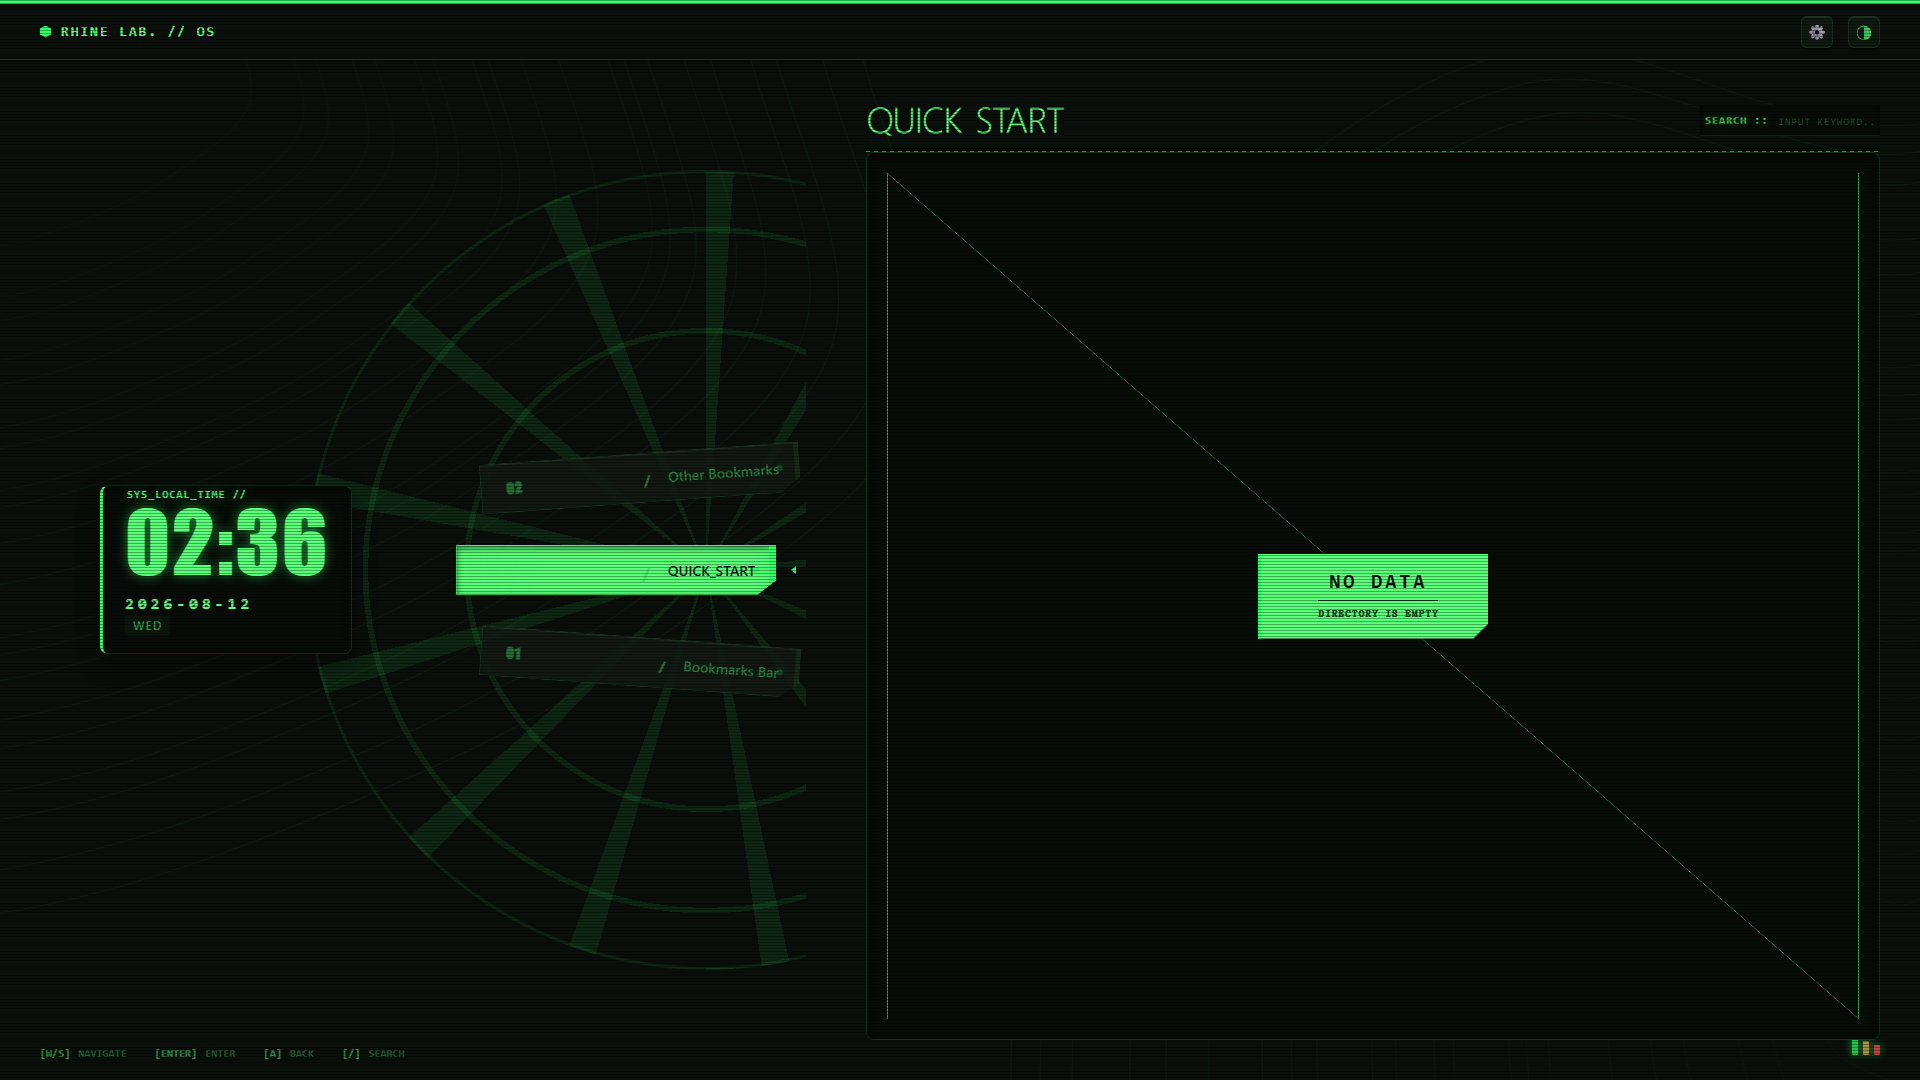
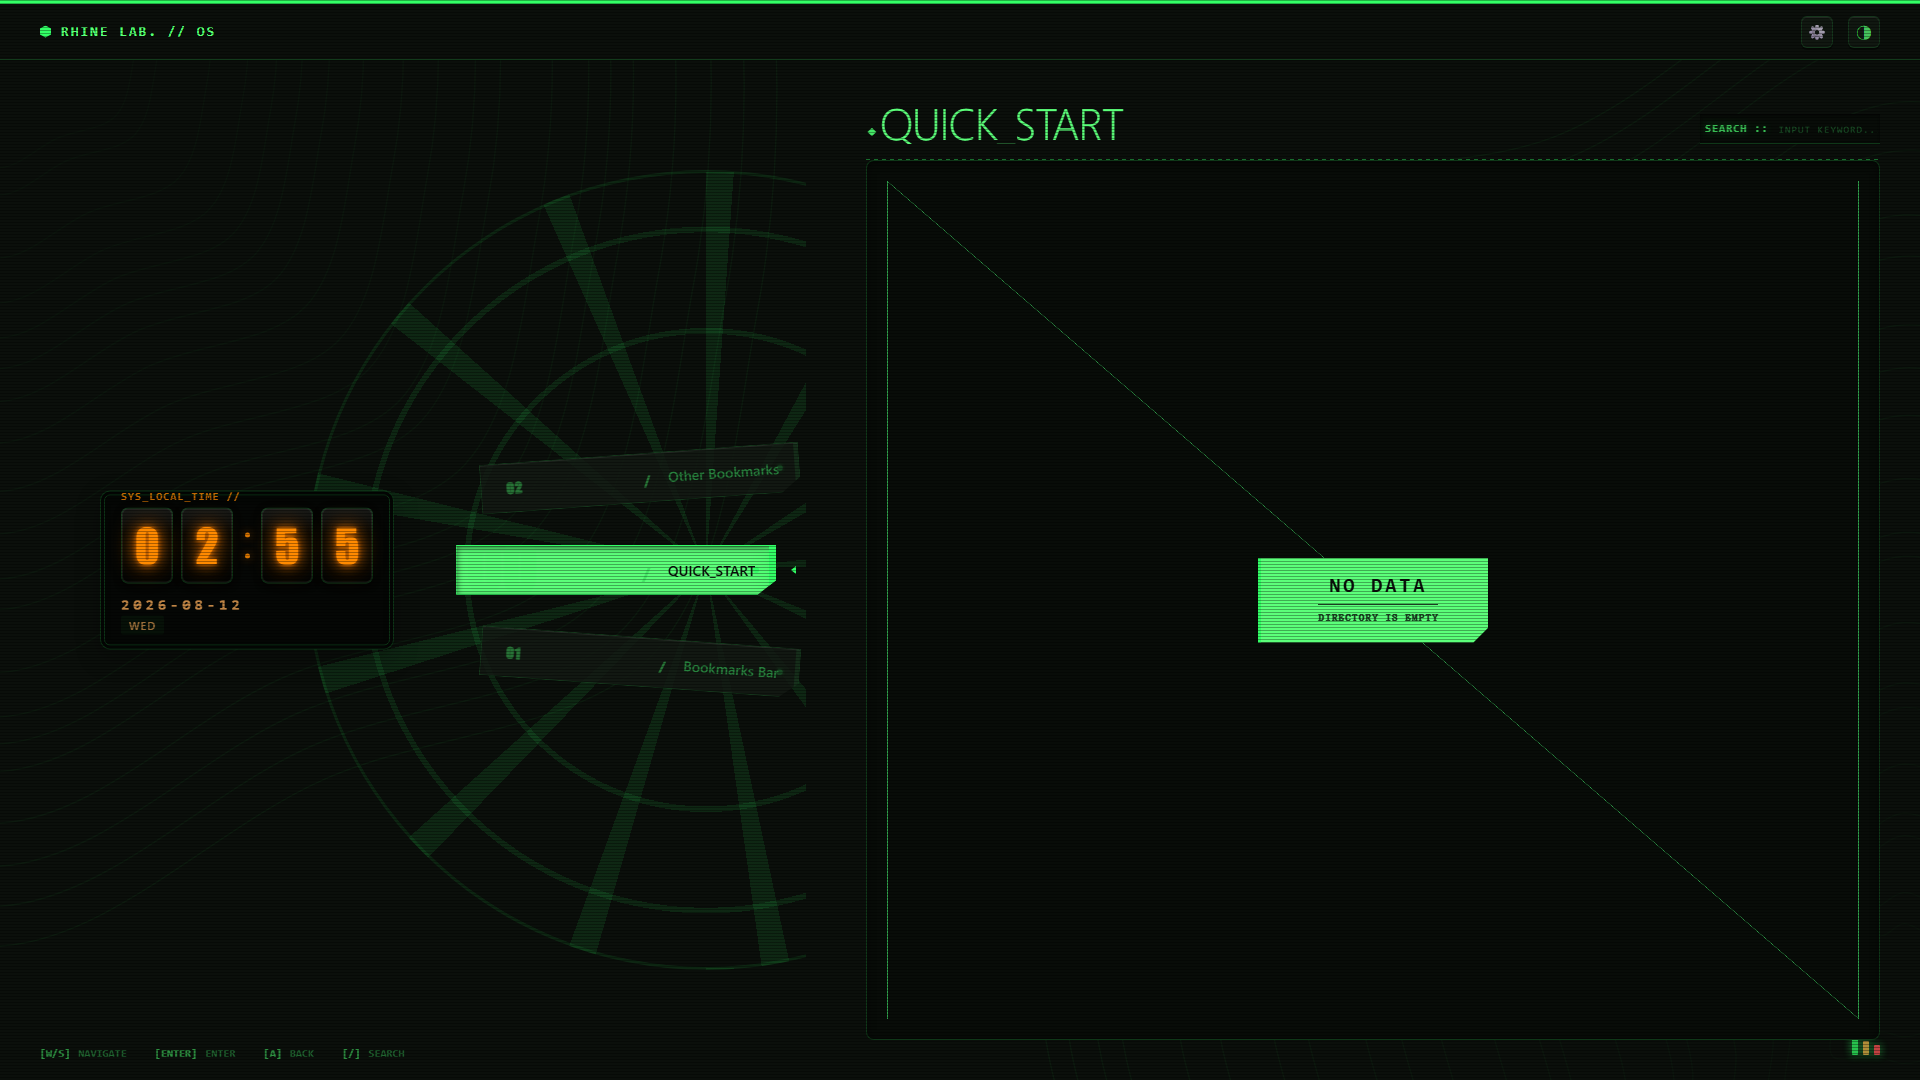
feat(ui): Nier-style monochrome light theme + Nixie tube clock
- light theme now pure black/white: near-white bg #F7F7F5, white surfaces, black accent/text, gray borders/shadows; green/amber removed (VU/LED gray-scaled); danger red kept for errors only
- Nixie tube clock implemented: clock.js renders per-digit .nixie-digit spans with data-digit; CSS tube rack with warm orange (#FF8A00) glow, ghost cathode digits via ::before, dot colon, orange date/week; orange is the only color accent in light theme
- Nier details: content title 44px with ◆ mark, modal section titles with ◆, inner frame lines on modal/clock housings
- dark theme unchanged (CRT green); regenerate screenshots

diff --git a/LoneTrail-Tab/css/modules/clock.css b/LoneTrail-Tab/css/modules/clock.css
@@ -1,59 +1,117 @@
-/* 时钟容器：HUD 风格 */
+/* 时钟容器：辉光管机架 */
 .clock-container {
     position: absolute;
-    left: 100px; 
+    left: 100px;
     top: 50%;
     transform: translateY(-50%);
     z-index: 10;
-    
+
     display: flex;
     flex-direction: column;
     justify-content: center;
-    
-    /* 显示屏模块：深色井底 + 边框 + 内阴影 */
-    padding: 18px 22px;
-    background: var(--well);
+
+    padding: 16px 20px 14px;
+    background: var(--tube);
     border: 1px solid var(--border);
-    border-radius: 8px;
-    box-shadow: inset 0 2px 6px var(--key-shadow), 0 8px 24px var(--shadow-soft);
-    border-left: 3px solid var(--accent);
-    
+    border-radius: 10px;
+    box-shadow: inset 0 2px 8px var(--key-shadow), 0 8px 24px var(--shadow-soft);
+    outline: 1px solid var(--border);
+    outline-offset: -5px;
+
     pointer-events: none;
     transition: opacity 0.3s;
 }
 
 .clock-container.hidden { opacity: 0; }
 
-/* 时间 (HH:MM) */
+/* 时间：一排辉光管 */
 .clock-time {
-    /* 使用等宽字体，数字对齐更漂亮 */
-    font-family: "Impact", "Roboto Mono", monospace;
-    font-size: 84px; /* 加大 */
-    font-weight: 400;
-    line-height: 0.9;
-    letter-spacing: 2px;
-    
-    color: var(--text-main);
-    text-shadow: 0 0 12px var(--phosphor-glow);
     position: relative;
+    display: flex;
+    align-items: center;
+    gap: 8px;
 }
 
 /* 装饰标签 SYS_TIME */
 .clock-time::before {
     content: "SYS_LOCAL_TIME //";
     position: absolute;
-    top: -14px; left: 2px;
+    top: -18px;
+    left: 0;
     font-size: 11px;
-    color: var(--accent-text);
+    color: var(--nixie);
     letter-spacing: 1px;
     font-family: var(--font-stack);
     font-weight: bold;
-    -webkit-text-fill-color: var(--accent-text); /* 覆盖上面的渐变 */
+    opacity: 0.75;
+}
+
+/* 单个辉光管 */
+.nixie-digit {
+    position: relative;
+    width: 52px;
+    height: 76px;
+    display: flex;
+    align-items: center;
+    justify-content: center;
+    border-radius: 7px;
+    background:
+        linear-gradient(180deg, var(--tube-sheen) 0%, transparent 35%, transparent 70%, var(--key-shadow) 100%),
+        var(--tube);
+    border: 1px solid var(--border);
+    box-shadow: inset 0 0 0 1px var(--tube-sheen), 0 2px 6px var(--key-shadow);
+    font-family: "Impact", "Roboto Mono", monospace;
+    font-size: 46px;
+    font-weight: 400;
+    line-height: 1;
+    color: var(--nixie);
+    text-shadow:
+        0 0 4px var(--nixie-glow),
+        0 0 12px var(--nixie-glow),
+        0 0 26px var(--nixie-glow);
+}
+
+/* 叠层幽灵数字（阴极片） */
+.nixie-digit::before {
+    content: attr(data-digit);
+    position: absolute;
+    inset: 0;
+    display: flex;
+    align-items: center;
+    justify-content: center;
+    font-family: inherit;
+    font-size: 44px;
+    color: var(--nixie);
+    opacity: 0.16;
+    filter: blur(1.5px);
+    transform: translateY(2px);
+    pointer-events: none;
+}
+
+/* 冒号：两个发光点 */
+.nixie-sep {
+    width: 12px;
+    height: 76px;
+    display: flex;
+    flex-direction: column;
+    align-items: center;
+    justify-content: center;
+    gap: 16px;
+}
+.nixie-sep::before,
+.nixie-sep::after {
+    content: '';
+    width: 5px;
+    height: 5px;
+    border-radius: 50%;
+    background: var(--nixie);
+    box-shadow: 0 0 8px var(--nixie-glow);
+    opacity: 0.85;
 }
 
 /* 日期与星期容器 */
 .clock-meta {
-    margin-top: 15px;
+    margin-top: 12px;
     display: flex;
     flex-direction: column;
     gap: 2px;
@@ -61,22 +119,22 @@
 
 /* 日期 */
 .clock-date {
-    font-size: 16px;
+    font-size: 15px;
     font-weight: 700;
-    color: var(--text-main);
+    color: var(--tube-text);
     letter-spacing: 4px;
     font-family: var(--font-stack);
 }
 
 /* 星期 */
 .clock-week {
-    font-size: 12px;
-    color: var(--text-sub);
+    font-size: 11px;
+    color: var(--tube-text);
     letter-spacing: 1px;
     text-transform: uppercase;
     font-weight: 600;
-    
-    /* 变成一个小标签样式 */
+    opacity: 0.8;
+
     display: inline-block;
     background: var(--inset);
     padding: 2px 8px;

diff --git a/LoneTrail-Tab/css/variables.css b/LoneTrail-Tab/css/variables.css
@@ -4,58 +4,64 @@
        ========================================= */
 
     /* 机身 */
-    --bg-color: #EAE2D0;                    /* 奶油机壳 */
-    --surface: #F3EDDE;                     /* 凸起键面 */
-    --well: #D8CFB9;                        /* 嵌槽/显示屏井 */
-    --inset: rgba(60, 50, 35, 0.08);        /* 内部轻微填充 */
+    --bg-color: #F7F7F5;                    /* 近白机身 */
+    --surface: #FFFFFF;                     /* 纯白键面 */
+    --well: #E8E8E6;                        /* 灰阶嵌槽 */
+    --inset: rgba(0, 0, 0, 0.06);           /* 内部轻微填充 */
 
     /* 文字 */
-    --text-main: #2B2620;
-    --text-sub: #6F6658;
-    --text-inverse: #F3EDDE;
-    --text-on-accent: #0B0F0B;
+    --text-main: #111111;
+    --text-sub: #666666;
+    --text-inverse: #F7F7F5;
+    --text-on-accent: #FFFFFF;              /* 黑底白字（尼尔式反相） */
     --text-on-danger: #FFFFFF;
 
-    /* 强调色（CRT 荧光绿，奶油底可读） */
-    --accent: #2F9E4E;
-    --accent-text: #1F7A33;
-    --accent-dim: rgba(47, 158, 78, 0.16);
+    /* 单色强调（纯黑白） */
+    --accent: #111111;
+    --accent-text: #111111;
+    --accent-dim: rgba(17, 17, 17, 0.08);
 
     /* 警示色 */
     --danger: #D64541;
     --danger-glow: rgba(214, 69, 65, 0.5);
 
     /* 线条与分隔 */
-    --border: rgba(60, 50, 35, 0.18);
-    --grid-line: rgba(60, 50, 35, 0.06);
+    --border: rgba(0, 0, 0, 0.14);
+    --grid-line: rgba(0, 0, 0, 0.05);
 
     /* 阴影与遮罩 */
-    --shadow: rgba(60, 45, 25, 0.14);
-    --shadow-soft: rgba(60, 45, 25, 0.06);
-    --overlay: rgba(35, 30, 20, 0.55);
+    --shadow: rgba(0, 0, 0, 0.10);
+    --shadow-soft: rgba(0, 0, 0, 0.04);
+    --overlay: rgba(0, 0, 0, 0.55);
 
     /* 组件派生 */
     --dial-active-bg: var(--text-main);
-    --dial-idx-active: rgba(47, 158, 78, 0.35);
-    --decoration-ring: rgba(60, 50, 35, 0.10);
+    --dial-idx-active: rgba(255, 255, 255, 0.30);
+    --decoration-ring: rgba(0, 0, 0, 0.08);
 
     /* 扁平行（右栏） */
-    --row-sep: rgba(60, 50, 35, 0.10);
-    --row-hover: rgba(60, 50, 35, 0.05);
-    --row-active-bg: rgba(47, 158, 78, 0.12);
-    --row-active-text: #2B2620;
+    --row-sep: rgba(0, 0, 0, 0.10);
+    --row-hover: rgba(0, 0, 0, 0.04);
+    --row-active-bg: rgba(0, 0, 0, 0.06);
+    --row-active-text: #111111;
     --row-indicator: var(--accent);
 
     /* 磁带机装饰 */
-    --led: #22C55E;
-    --led-glow: rgba(34, 197, 94, 0.65);
-    --key-highlight: rgba(255, 255, 255, 0.55);
-    --key-shadow: rgba(60, 50, 35, 0.28);
-    --scanline: rgba(0, 0, 0, 0.05);
-    --phosphor-glow: rgba(47, 158, 78, 0.35);
-    --vu-1: #22C55E;
-    --vu-2: #D9A520;
-    --vu-3: #D64541;
+    --led: #111111;
+    --led-glow: rgba(17, 17, 17, 0.5);
+    --key-highlight: rgba(255, 255, 255, 0.9);
+    --key-shadow: rgba(0, 0, 0, 0.20);
+    --scanline: rgba(0, 0, 0, 0.04);
+    --vu-1: #333333;
+    --vu-2: #666666;
+    --vu-3: #999999;
+
+    /* 辉光管（亮色下唯一暖色点缀） */
+    --tube: #17150F;
+    --tube-sheen: rgba(255, 255, 255, 0.08);
+    --tube-text: rgba(255, 176, 92, 0.75);
+    --nixie: #FF8A00;
+    --nixie-glow: rgba(255, 128, 0, 0.65);
 
     /* 字体 */
     --font-ui: "Segoe UI", "Microsoft YaHei", "PingFang SC", "Helvetica Neue", sans-serif;
@@ -113,4 +119,11 @@
     --vu-1: #33FF66;
     --vu-2: #E9B949;
     --vu-3: #FF5555;
+
+    /* 辉光管（经典暖橙，明暗一致） */
+    --tube: #050705;
+    --tube-sheen: rgba(255, 255, 255, 0.08);
+    --tube-text: rgba(255, 176, 92, 0.75);
+    --nixie: #FF8A00;
+    --nixie-glow: rgba(255, 128, 0, 0.65);
 }

diff --git a/LoneTrail-Tab/css/modules/modal.css b/LoneTrail-Tab/css/modules/modal.css
@@ -13,6 +13,8 @@
     background: var(--surface);
     border: 1px solid var(--border);
     box-shadow: inset 0 1px 0 var(--key-highlight), 0 30px 80px var(--shadow);
+    outline: 1px solid var(--border);
+    outline-offset: -6px;
     
     /* [修改] 固定大尺寸 */
     width: 900px;
@@ -78,6 +80,7 @@
 .section-header { display: flex; align-items: center; gap: 10px; margin-bottom: 20px; }
 .section-num { font-size: 32px; font-weight: 900; color: var(--grid-line); font-family: "Impact"; line-height: 1; }
 .section-title { font-size: 14px; font-weight: 800; letter-spacing: 1.5px; color: var(--text-main); font-family: var(--font-ui); }
+.section-title::before { content: '◆ '; font-size: 0.8em; }
 .section-line { flex: 1; height: 2px; background: var(--grid-line); }
 
 /* --- 设置项样式 (保持之前的 List Layout) --- */

diff --git a/LoneTrail-Tab/js/clock.js b/LoneTrail-Tab/js/clock.js
@@ -28,7 +28,13 @@ function updateClock() {
     const dateEl = document.getElementById('clock-date');
     const weekEl = document.getElementById('clock-week');
 
-    if (timeEl) timeEl.textContent = `${hours}:${minutes}`;
+    if (timeEl) {
+        timeEl.innerHTML = [...`${hours}:${minutes}`]
+            .map(ch => ch === ':'
+                ? '<span class="nixie-sep"></span>'
+                : `<span class="nixie-digit" data-digit="${ch}">${ch}</span>`)
+            .join('');
+    }
 
     if (dateEl) {
         const year = now.getFullYear();

diff --git a/LoneTrail-Tab/css/layout.css b/LoneTrail-Tab/css/layout.css
@@ -114,7 +114,7 @@
 }
 
 .content-header h2 {
-    font-size: 36px; 
+    font-size: 44px; 
     font-weight: 300; 
     letter-spacing: -1px; 
     margin: 0;
@@ -125,6 +125,12 @@
     overflow: hidden; 
     text-overflow: ellipsis;
     line-height: 1;
+}
+.content-header h2::before {
+    content: '◆ ';
+    font-size: 0.4em;
+    color: var(--accent-text);
+    vertical-align: 0.08em;
 }
 
 /* 分割线动画 */
